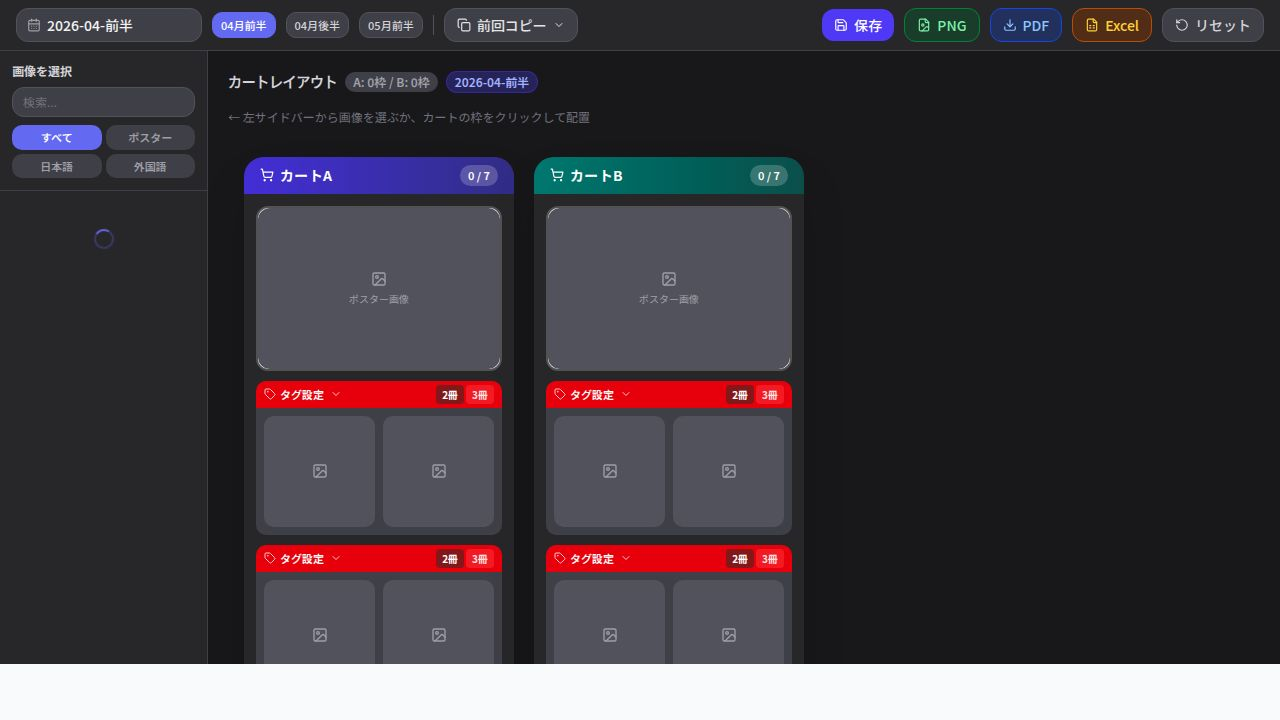
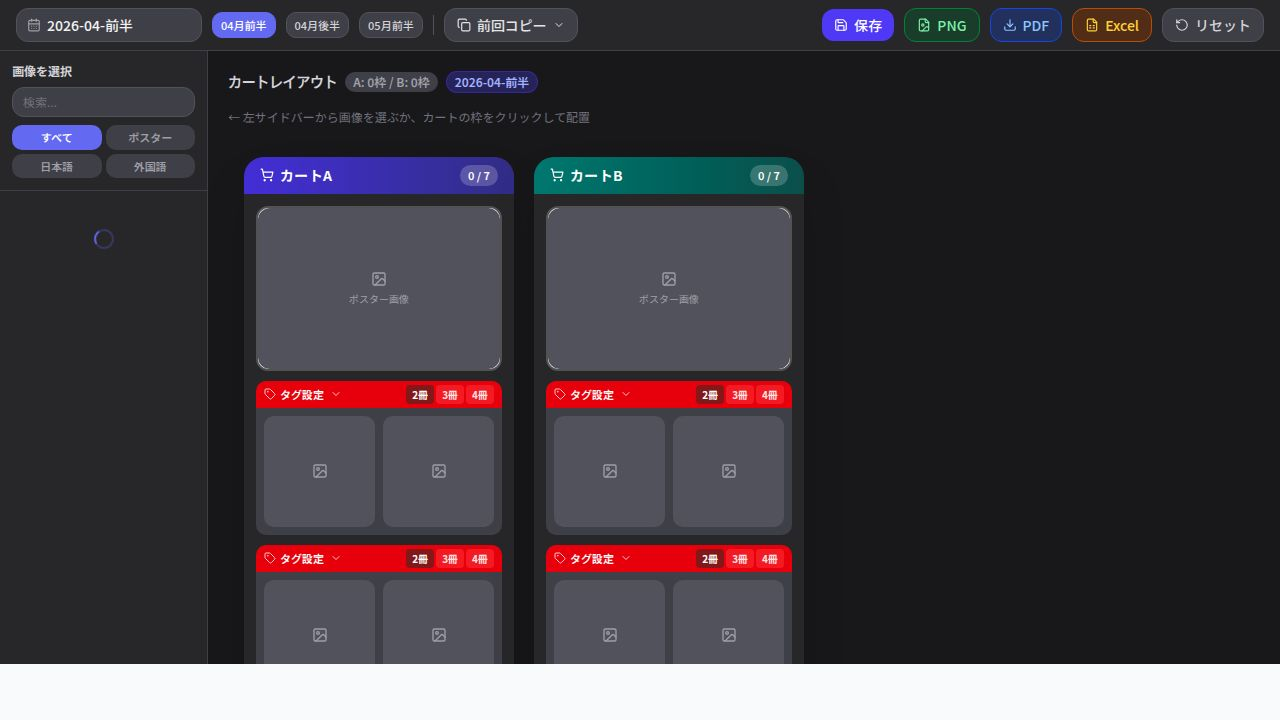
Add option to display four items in exhibition carts
Update type definitions, layout calculations, button labels, and grid classes to support a "4_cols" layout type in the exhibition cart editor.

Replit-Commit-Author: Agent
Replit-Commit-Session-Id: 36e0520c-ba30-4144-ac09-97b06de49b10
Replit-Commit-Checkpoint-Type: full_checkpoint
Replit-Commit-Event-Id: 8fc77f2d-04ad-4b4b-a21d-0209403cfca9
Replit-Commit-Screenshot-Url: https://storage.googleapis.com/screenshot-production-us-central1/07c5e277-cfff-4b53-81d4-3c3d02cab810/36e0520c-ba30-4144-ac09-97b06de49b10/fZ0mCsW
Replit-Helium-Checkpoint-Created: true

diff --git a/artifacts/exhibition-cart/src/pages/CartEditor.tsx b/artifacts/exhibition-cart/src/pages/CartEditor.tsx
@@ -76,13 +76,13 @@ function TagBar({ shelfKey, shelf, onLayoutChange, onTagChange }: TagBarProps) {
         </button>
         {/* Layout switcher */}
         <div className="flex gap-0.5 flex-shrink-0" onClick={(e) => e.stopPropagation()}>
-          {(["2_cols", "3_cols"] as ShelfLayoutType[]).map((t) => (
+          {(["2_cols", "3_cols", "4_cols"] as ShelfLayoutType[]).map((t) => (
             <button key={t}
               onClick={() => onLayoutChange(t)}
               className={`text-[10px] font-bold px-1.5 py-0.5 rounded transition-colors ${
                 shelf.layout_type === t ? "bg-red-900 text-white" : "bg-red-500/60 text-red-100 hover:bg-red-800"
               }`}>
-              {t === "2_cols" ? "2冊" : "3冊"}
+              {t === "2_cols" ? "2冊" : t === "3_cols" ? "3冊" : "4冊"}
             </button>
           ))}
         </div>
@@ -228,7 +228,7 @@ function ShelfSection({
         shelfKey={shelfKey} shelf={shelf}
         onLayoutChange={onLayoutChange} onTagChange={onTagChange}
       />
-      <div className={`bg-zinc-700 rounded-b-md p-2 grid gap-2 ${shelf.layout_type === "3_cols" ? "grid-cols-3" : "grid-cols-2"}`}>
+      <div className={`bg-zinc-700 rounded-b-md p-2 grid gap-2 ${shelf.layout_type === "4_cols" ? "grid-cols-4" : shelf.layout_type === "3_cols" ? "grid-cols-3" : "grid-cols-2"}`}>
         {shelf.items.map((itemId, idx) => (
           <ItemSlot
             key={idx}
@@ -423,7 +423,9 @@ export default function CartEditor() {
     const setter = getSetCart(cart);
     setter((prev) => {
       const shelf = prev[shelfKey];
-      const newItems = t === "3_cols"
+      const newItems = t === "4_cols"
+        ? [shelf.items[0] ?? null, shelf.items[1] ?? null, shelf.items[2] ?? null, shelf.items[3] ?? null]
+        : t === "3_cols"
         ? [shelf.items[0] ?? null, shelf.items[1] ?? null, shelf.items[2] ?? null]
         : [shelf.items[0] ?? null, shelf.items[1] ?? null];
       return { ...prev, [shelfKey]: { ...shelf, layout_type: t, items: newItems } };

diff --git a/artifacts/exhibition-cart/src/lib/supabase.ts b/artifacts/exhibition-cart/src/lib/supabase.ts
@@ -26,7 +26,7 @@ export interface Item {
 }
 
 /* ─── Cart Layout V2 ─── */
-export type ShelfLayoutType = "2_cols" | "3_cols";
+export type ShelfLayoutType = "2_cols" | "3_cols" | "4_cols";
 export type TagType = "lang" | "free" | "none";
 export type ShelfKey = "shelf1" | "shelf2" | "shelf3";
 
@@ -80,7 +80,7 @@ export function filledCountV2(layout: CartLayoutV2): number {
 export function maxCountV2(layout: CartLayoutV2): number {
   let n = 1;
   for (const key of ["shelf1", "shelf2", "shelf3"] as ShelfKey[]) {
-    n += layout[key].layout_type === "3_cols" ? 3 : 2;
+    n += layout[key].layout_type === "4_cols" ? 4 : layout[key].layout_type === "3_cols" ? 3 : 2;
   }
   return n;
 }
